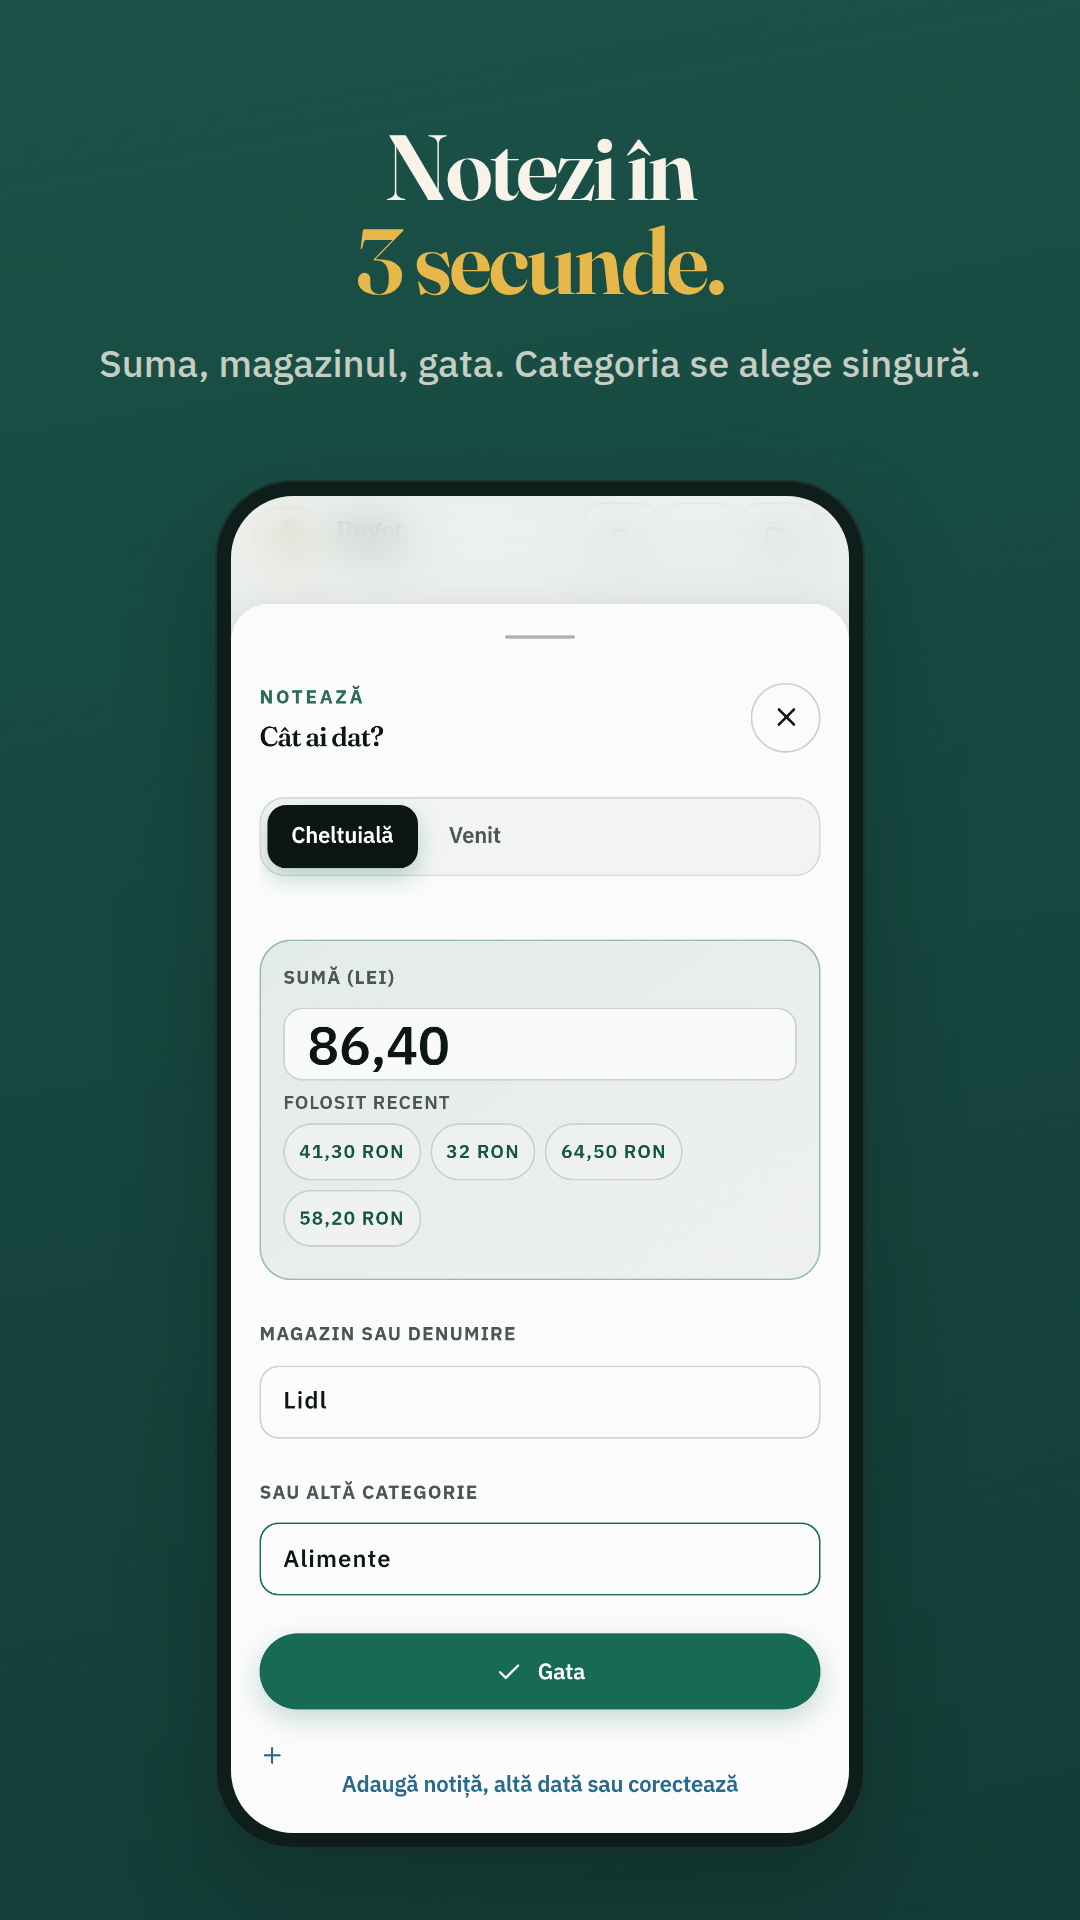
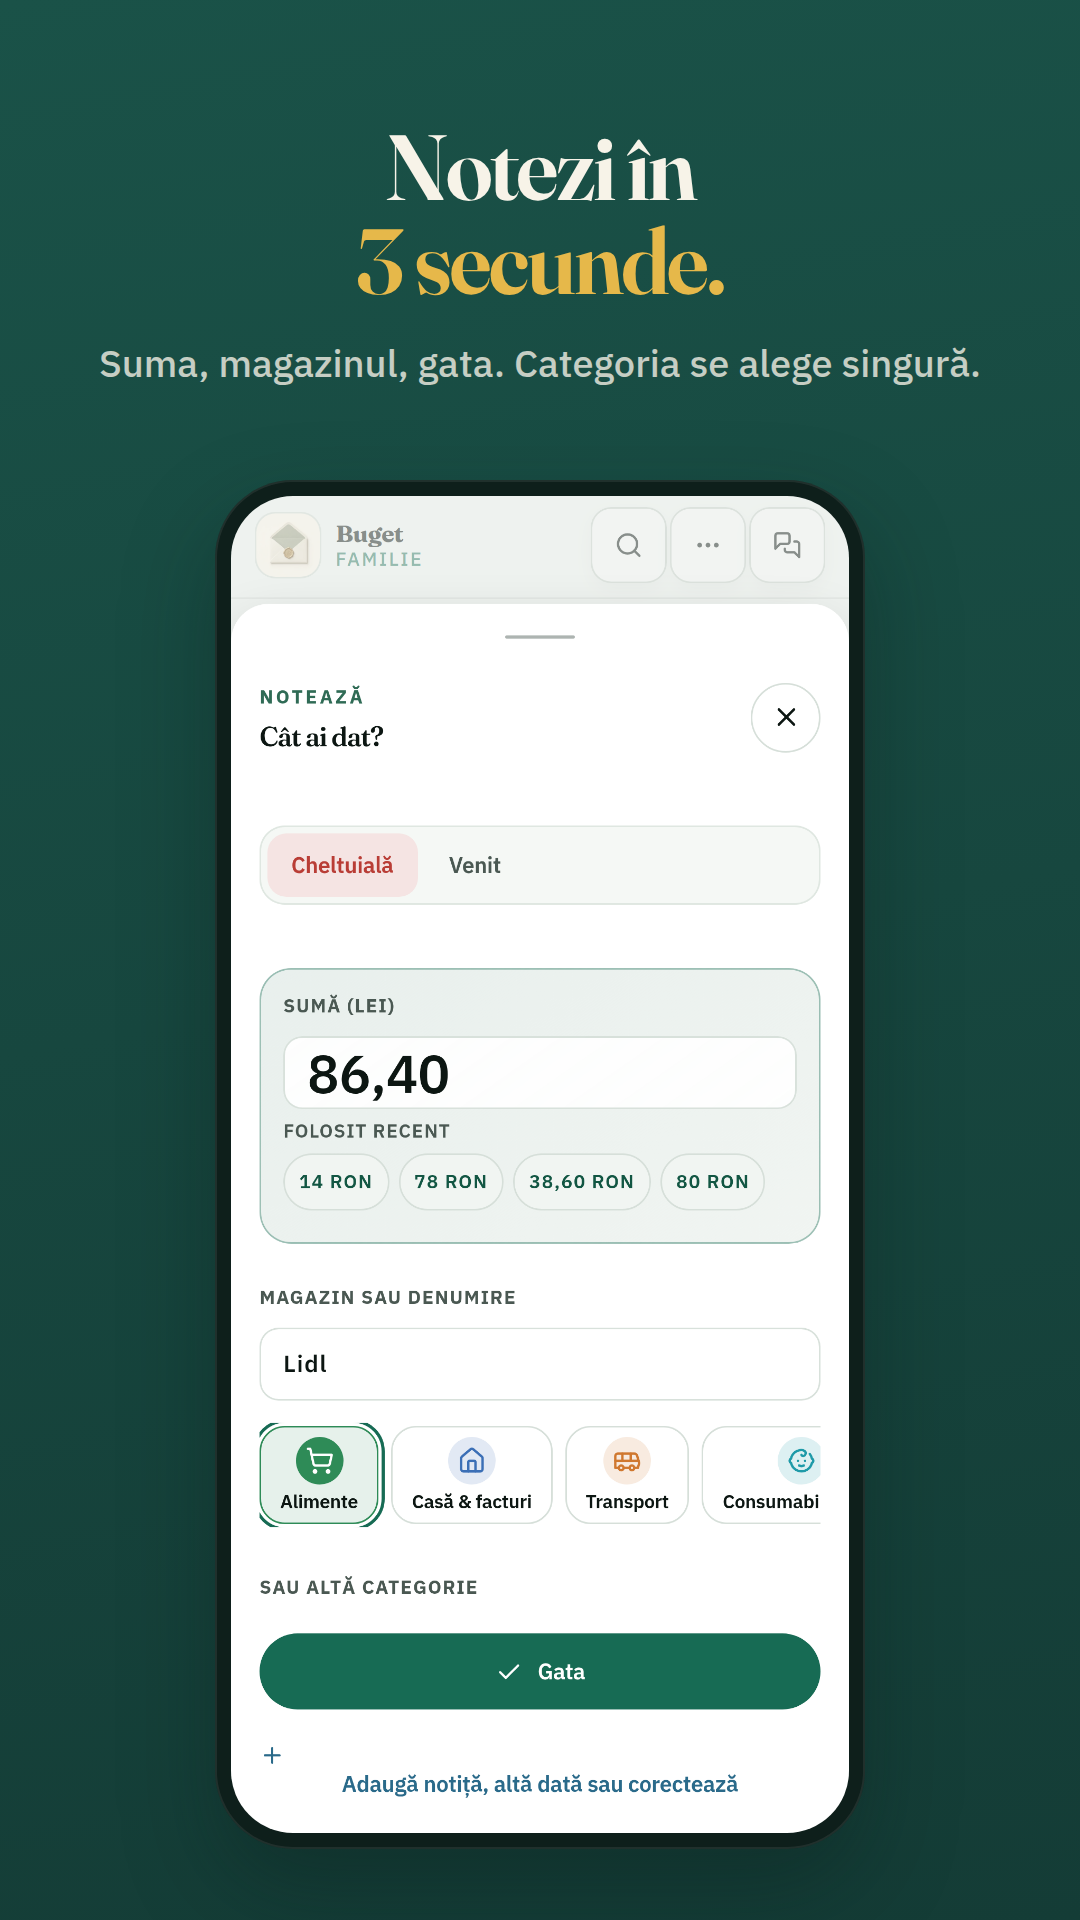
docs: capturile Play refăcute, cu culorile pe categorii și imaginea lunii
seed.mjs (familia Andrei și Maria) intră în repo: capturile se pot reface.
Cadrul 3 devine „Toată luna, într-o imagine”.

Claude-Session: https://claude.ai/code/session_014jGkia1KfwoYC2CQpYCnwG

diff --git a/docs/play-store-assets/SCREENSHOTS.md b/docs/play-store-assets/SCREENSHOTS.md
@@ -12,14 +12,14 @@
 |---|---|---|---|
 | 1 | `01-today` | Cât poți cheltui azi | What you can spend today |
 | 2 | `02-split` | A intrat salariul? Se împarte singur. | Payday? It splits itself. |
-| 3 | `03-plan` | Fiecare leu are un loc. | Every leu has a place. |
-| 4 | `04-needs` | Două salarii, zile diferite. | Two salaries, different days. |
+| 3 | `03-month` | Toată luna, într-o imagine. | The whole month, in one picture. |
+| 4 | `04-plan` | Fiecare leu are un loc. | Every leu has a place. |
 | 5 | `05-add` | Notezi în 3 secunde. | Log it in 3 seconds. |
 | 6 | `06-journal` | Toate mișcările familiei. | Every family transaction. |
 | 7 | `07-obligations` | Rate și facturi la timp. | Bills and loans on time. |
 | 8 | `08-insights` | Vezi unde se duc banii. | See where the money goes. |
 
-Date inventate (familia Andrei și Maria), scrise doar în localStorage-ul browserului de test, nu în Firebase.
+Date inventate (familia Andrei și Maria, `scripts/store-screenshots/seed.mjs`), scrise doar în localStorage-ul browserului de test, nu în Firebase. Refăcute pe 2 octombrie 2026, cu culorile pe categorii și imaginea lunii (cadrul 3 înlocuiește „Două salarii, zile diferite”; `raw/*-needs.png` rămâne disponibil).
 Tot aici: `icon-512.png` (iconul Play) și `feature-graphic-ro.png` / `feature-graphic-en.png` (1024×500, `node feature.mjs`).
 
 Refacere: pornește `vite --port 5174`, apoi din `scripts/store-screenshots/`:
